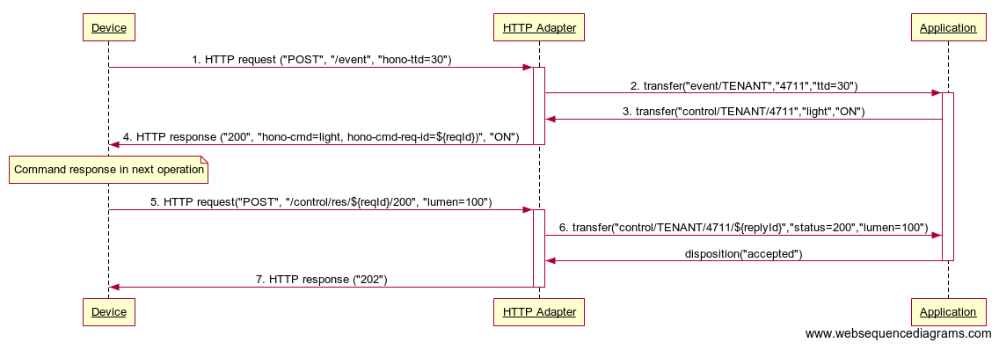
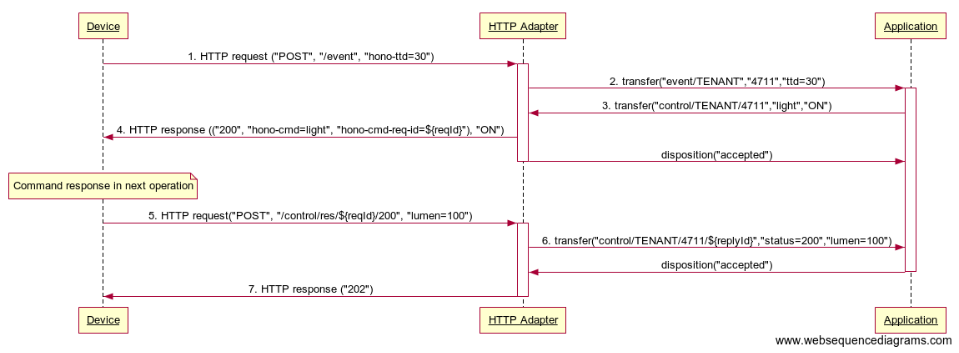
[#669] Handle one-way commands in the HTTP adapter.

diff --git a/adapters/http-vertx-base/src/main/java/org/eclipse/hono/adapter/http/AbstractVertxBasedHttpProtocolAdapter.java b/adapters/http-vertx-base/src/main/java/org/eclipse/hono/adapter/http/AbstractVertxBasedHttpProtocolAdapter.java
@@ -730,14 +730,16 @@ public abstract class AbstractVertxBasedHttpProtocolAdapter<T extends HttpProtoc
             response.setStatusCode(HttpURLConnection.HTTP_ACCEPTED);
         } else {
             final Command command = commandContext.getCommand();
+            response.putHeader(Constants.HEADER_COMMAND, command.getName());
             currentSpan.setTag(Constants.HEADER_COMMAND, command.getName());
-            currentSpan.setTag(Constants.HEADER_COMMAND_REQUEST_ID, command.getRequestId());
             LOG.trace("adding command [name: {}, request-id: {}] to response for device [tenant-id: {}, device-id: {}]",
                     command.getName(), command.getRequestId(), command.getTenant(), command.getDeviceId());
-            response.setStatusCode(HttpURLConnection.HTTP_OK);
-            response.putHeader(Constants.HEADER_COMMAND, command.getName());
-            response.putHeader(Constants.HEADER_COMMAND_REQUEST_ID, command.getRequestId());
+            if (!command.isOneWay()) {
+                response.putHeader(Constants.HEADER_COMMAND_REQUEST_ID, command.getRequestId());
+                currentSpan.setTag(Constants.HEADER_COMMAND_REQUEST_ID, command.getRequestId());
+            }
 
+            response.setStatusCode(HttpURLConnection.HTTP_OK);
             HttpUtils.setResponseBody(response, command.getPayload(), command.getContentType());
         }
     }

diff --git a/site/content/concepts/command-and-control.md b/site/content/concepts/command-and-control.md
@@ -9,19 +9,22 @@ Since Hono 0.6 *Business applications* can send commands to devices following th
 
 This concept refers to the current implementation of Command & Control that will be extended in the future.
 
-{{% note %}}
-This feature is available now as a fully working version but is considered to possibly have some unknown issues that may not make it
-fully production ready yet.
-{{% /note %}}
-
 You can try the implementation directly by following the [Getting Started]({{< ref "getting-started" >}}) guide.
 
 
 ## Command & Control over HTTP Adapter
 
-The following sequence diagram gives an overview of a device connecting via HTTP, which gets a command from the business application in the response to a downstream message - being an arbitrary event in this example. The application and the adapter connect to the AMQP Network, which forwards the transfer - for clarity this is not shown in the diagram. 
+Commands can be sent following a *request/response* pattern or being *one-way*. For *Request/Response* commands, there is always a response expected from the device.
+
+The following sequence diagrams give an overview of a device connecting via HTTP, which gets a command from the business application in the response to a downstream message - being an arbitrary event in this example. The application and the adapter connect to the AMQP Network, which forwards the transfer - for clarity this is not shown in the diagram. 
+
+**(Request/Response) command over HTTP:**
  
 ![Command & Control over HTTP Adapter](../command_control_concept_http.png) 
+
+**One-way command over HTTP:**
+
+![One-way Command & Control over HTTP Adapter](../command_control_concept_one_way_http.png) 
 
 With the *hono-ttd* request parameter in (1) the device indicates it will stay connected for max. 30 seconds. In the shown example this means that it can handle the response to the HTTP request for up to 30 seconds before considering the request being expired. 
 
@@ -33,9 +36,14 @@ The HTTP Adapter gets the command and writes it in the response of the devices `
 | Response Header         | Description         |
 | :---------------------  |  :----------------- |
 | *hono-cmd*              | The name of the command to execute. Any input data required will be contained in the response body. |
-| *hono-cmd-req-id*       | The unique identifier of the command. This identifier is used to correlate the device's response to the command with the request. |
+| *hono-cmd-req-id*       | Only set for **Request/Response commands** : The unique identifier of the command. This identifier is used to correlate the device's response to the command with the request. |
 
-The *hono-cmd* is the command that should be executed by the device. Typically this command needs to be known by the device and the payload may contain additional details of the command. The *hono-cmd-req-id* is needed for the command response to correlate it. It has to be sent back from the device to the adapter in a following operation (5). 
+The *hono-cmd* is the command that should be executed by the device. Typically this command needs to be known by the device and the payload may contain additional details of the command. 
+
+
+**For Request/Response commands**:
+
+The *hono-cmd-req-id* is needed for the command response to correlate it. It has to be sent back from the device to the adapter in a following operation (5). 
  
 The device needs to respond to the command (5), to inform the business application about the outcome of executing the command. For this purpose 
 specific URIs are defined in [HTTP Adapter]({{< relref "user-guide/http-adapter.md#sending-a-response-to-a-previously-received-command" >}}).

diff --git a/site/content/getting-started.md b/site/content/getting-started.md
@@ -261,9 +261,9 @@ If you do not run Docker on localhost, replace *localhost* in the link with the 
 
 ## Using Command & Control
 
-Command & Control is fully implemented in Hono but is currently considered a *technical preview*. 
+Command & Control is fully implemented in Hono 0.8 (and newer).
 
-The following walk-through example shows how to try it out.
+The following walk-through example shows how to use it.
 
 ### Starting the example application
 
@@ -307,15 +307,18 @@ The response to the `curl` command contains the command from the example applica
     
 The example application sets the `brightness` to a random value between 0 and 100 on each invocation. It also generates a unique correlation identifier for each new command to be sent to the device. The device will need to include this identifier in its response to the command so that the application can properly correlate the response with the request.
 
+**NB:** If the application would send a *one-way command* instead (see [Command and Control Concepts]({{< relref "concepts/command-and-control.md" >}})), the `hono-cmd-req-id` response header would be missing.
+
 {{% note %}}
 If you are running Hono on another node than the application, e.g. using *Docker Machine*, *Minikube* or *Minishift*, and the clock of that node is not in sync with the node that your (example) application is running on, then the application might consider the *time til disconnect* indicated by the device in its *hono-ttd* parameter to already have expired. This will happen if the application node's clock is ahead of the clock on the HTTP protocol adapter node. Consequently, this will result in the application **not** sending any command to the device.
 
 Thus, you need to make sure that the clocks of the node running the application and the node running the HTTP protocol adapter are synchronized (you may want to search the internet for several solutions to this problem).
 {{% /note %}}
 
+
 ### Sending the Response to the Command
 
-After the device has received the command and has processed it, it needs to inform the application about the outcome. For this purpose the device uploads the result to the HTTP adapter using a new HTTP request. The following command simulates the device uploading some JSON payload indicating a successful result:
+If the received command was *not* a *one-way command*, and the device has received the command and has processed it, it needs to inform the application about the outcome. For this purpose the device uploads the result to the HTTP adapter using a new HTTP request. The following command simulates the device uploading some JSON payload indicating a successful result:
 
     $ curl -i -X POST -u sensor1@DEFAULT_TENANT:hono-secret -H 'Content-Type: application/json' \
     -H 'hono-cmd-status: 200' --data-binary '{"success": true}' \
